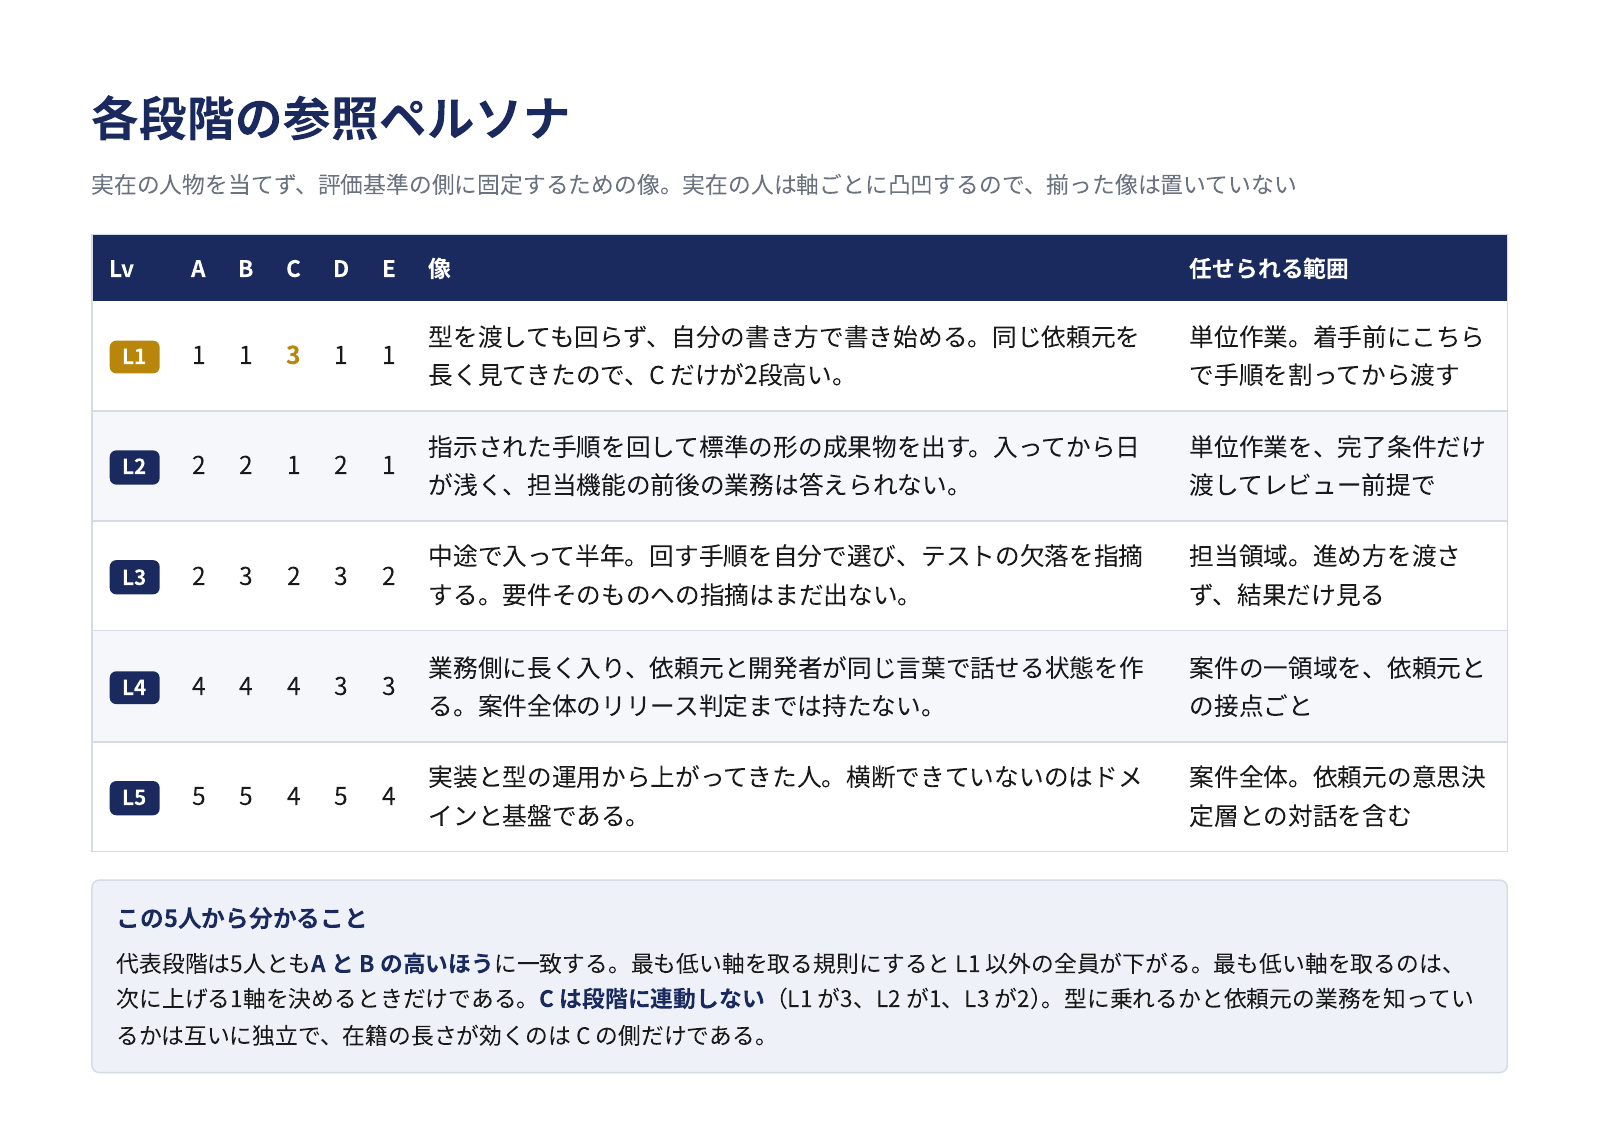
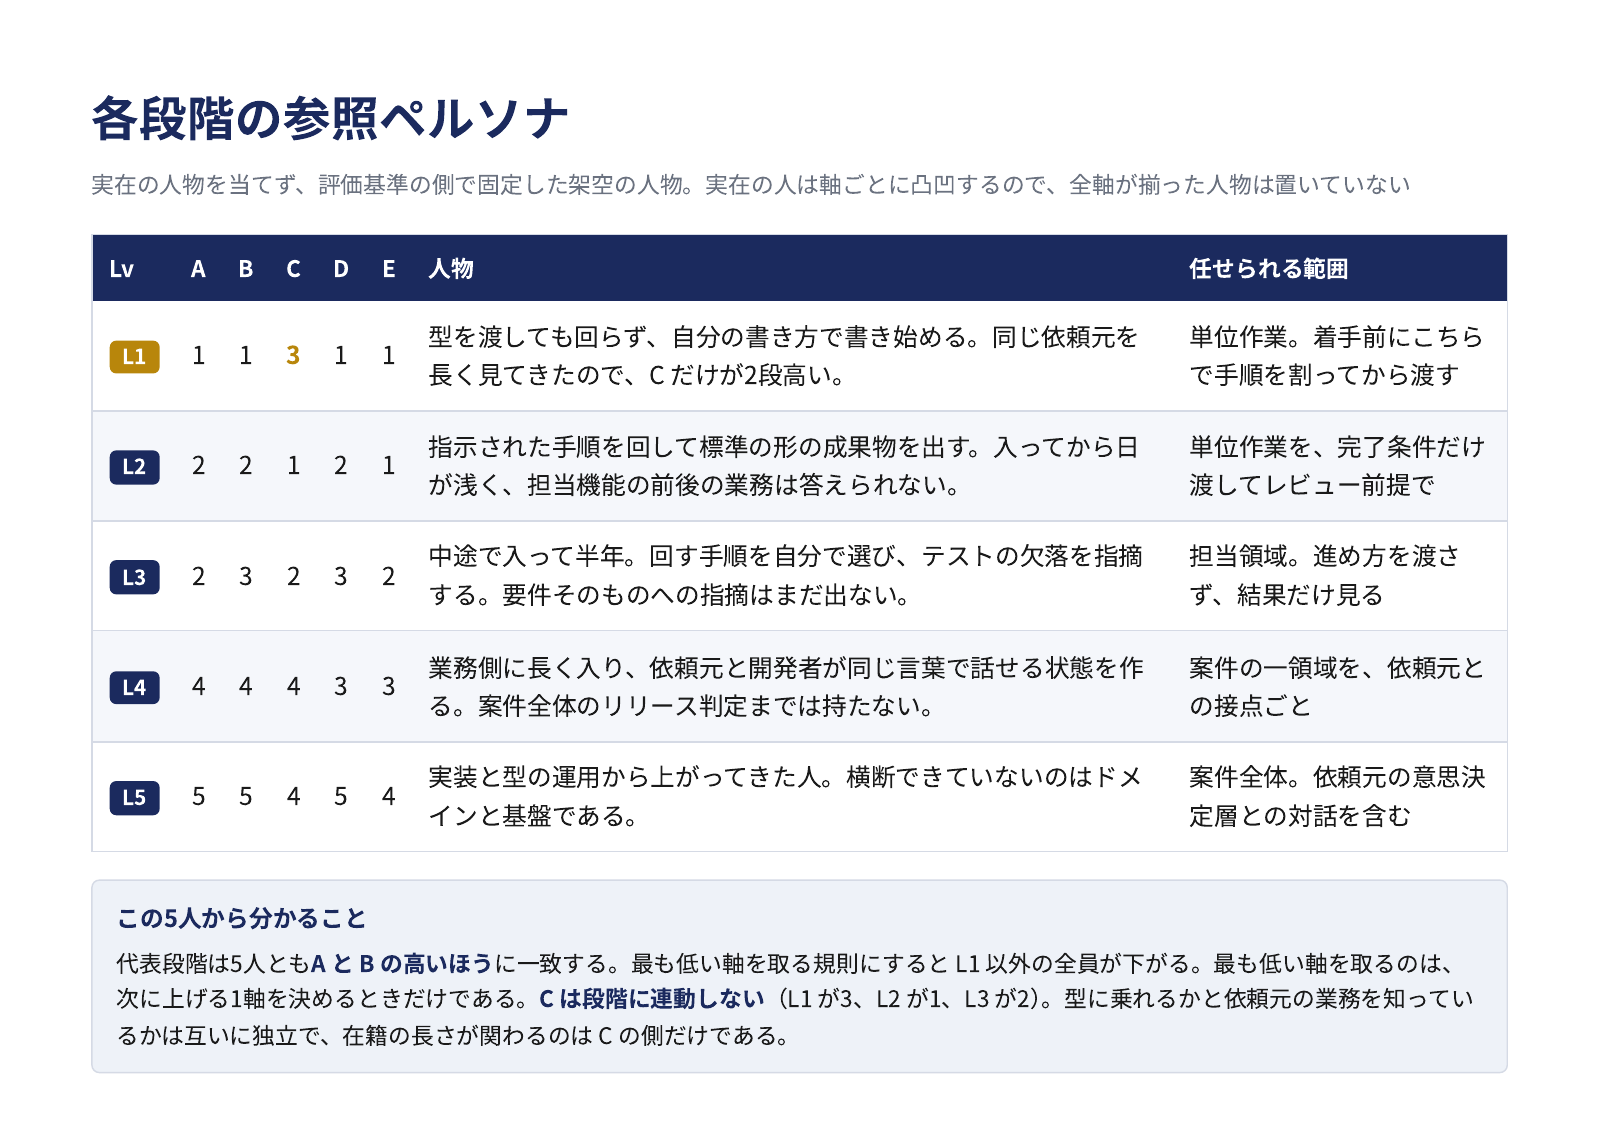
Replace vague 像 wording in ladder docs and slides
参照ペルソナを指す「像」を「架空の人物」に、L5 の「到達像」を「到達点」に書き換えた。スライド8枚目の「効く」も docs と同じ「関わる」にそろえ、PNG を作り直した。

Changed region(s): [[0.3125, 0.1547, 0.875, 0.1857], [0.2812, 0.8974, 0.5, 0.9284], [0.25, 0.2166, 0.3125, 0.2476]]

diff --git a/ladder/slides.html b/ladder/slides.html
@@ -193,7 +193,7 @@ li::before{ content:""; position:absolute; left:.4mm; top:calc(.5lh - .75mm);
     <div class="co3">
       <div class="callout"><div class="t">L1 は標準化の外に置く</div>型を渡しても回せず、個人の書き方で成果物を出す状態。<b>型を渡して回させれば L2 へ上がれる</b>ので、育成の出発点が定義で決まる。</div>
       <div class="callout"><div class="t">L2 は型を理解すれば届く</div>判定文は型が実際に強制するものだけで書いてある。理解した人が届かないなら、<b>直すのは人ではなく判定文か型の側</b>である。</div>
-      <div class="callout"><div class="t">L5 の行は到達像</div>5本がすべて真になる人を探すためではなく、<b>どの軸がどれだけ足りないか</b>を言うために使う。</div>
+      <div class="callout"><div class="t">L5 の行は到達点</div>5本がすべて真になる人を探すためではなく、<b>どの軸がどれだけ足りないか</b>を言うために使う。</div>
     </div>
     <div class="note">※ 報酬帯との対応は持たない。段階と報酬の結び付け方は各社で違い、評価基準の側に固定すると持ち込めなくなる。</div>
   </div>
@@ -304,14 +304,14 @@ li::before{ content:""; position:absolute; left:.4mm; top:calc(.5lh - .75mm);
 <section class="page">
   <div class="head">
     <h1>各段階の参照ペルソナ</h1>
-    <div class="sub">実在の人物を当てず、評価基準の側に固定するための像。実在の人は軸ごとに凸凹するので、揃った像は置いていない</div>
+    <div class="sub">実在の人物を当てず、評価基準の側で固定した架空の人物。実在の人は軸ごとに凸凹するので、全軸が揃った人物は置いていない</div>
   </div>
   <div class="body">
     <table style="flex:1">
       <thead><tr>
         <th style="width:14mm">Lv</th>
         <th class="num" style="width:7mm">A</th><th class="num" style="width:7mm">B</th><th class="num" style="width:7mm">C</th><th class="num" style="width:7mm">D</th><th class="num" style="width:7mm">E</th>
-        <th>像</th><th style="width:62mm">任せられる範囲</th>
+        <th>人物</th><th style="width:62mm">任せられる範囲</th>
       </tr></thead>
       <tbody>
         <tr><td><span class="lv out">L1</span></td>
@@ -339,7 +339,7 @@ li::before{ content:""; position:absolute; left:.4mm; top:calc(.5lh - .75mm);
   </div>
   <div class="foot"><div class="callout">
     <div class="t">この5人から分かること</div>
-    代表段階は5人とも<b>A と B の高いほう</b>に一致する。最も低い軸を取る規則にすると L1 以外の全員が下がる。最も低い軸を取るのは、次に上げる1軸を決めるときだけである。<b>C は段階に連動しない</b>（L1 が3、L2 が1、L3 が2）。型に乗れるかと依頼元の業務を知っているかは互いに独立で、在籍の長さが効くのは C の側だけである。
+    代表段階は5人とも<b>A と B の高いほう</b>に一致する。最も低い軸を取る規則にすると L1 以外の全員が下がる。最も低い軸を取るのは、次に上げる1軸を決めるときだけである。<b>C は段階に連動しない</b>（L1 が3、L2 が1、L3 が2）。型に乗れるかと依頼元の業務を知っているかは互いに独立で、在籍の長さが関わるのは C の側だけである。
   </div></div>
 </section>
 

diff --git a/ladder/docs/personas.md b/ladder/docs/personas.md
@@ -1,12 +1,12 @@
 # 参照ペルソナ
 
-[ladder.md](ladder.md) の各段階に1人ずつ像を置く。実在の人物を当てず、評価基準の側を
-固定するための像である。採点で迷ったとき、判定文とこの5人を照らし合わせる。
+[ladder.md](ladder.md) の各段階に1人ずつ架空の人物を置く。実在の人物を当てず、評価基準の側で
+固定しておく。採点で迷ったとき、判定文とこの5人を照らし合わせる。
 
-**5人とも全軸を揃えていない。** 実在の人は軸ごとに凸凹するため、揃った像はどの人にも
-当たらない。
+**5人とも全軸を揃えていない。** 実在の人は軸ごとに凸凹するため、全軸が揃った人物は実在の
+どの人にも当たらない。
 
-**全軸が揃った像は正本の側にある。** ladder.md の L5 の行に並ぶ5本の判定文が
+**全軸が揃った L5 は正本の側にある。** ladder.md の L5 の行に並ぶ5本の判定文が
 それで、ここに置いた L5 はその行に全軸で届いた人ではなく、L5 と呼ぶ人の一例である。
 
 **点は能力で書いてある。** 機会が無くてやっていないことを理由に点は下げない。

diff --git a/ladder/docs/ladder.md b/ladder/docs/ladder.md
@@ -31,7 +31,7 @@
 届かない。C ドメイン理解は L2 の時点ですでにこの保証から外れる。依頼元の業務を成果物にする手順を
 持つ型が少ないためで、そこは型の側の欠落になる。
 
-**L5 の行は到達像である。** 5本の判定文がすべて真になる人を探すためではなく、
+**L5 の行は到達点である。** 5本の判定文がすべて真になる人を探すためではなく、
 どの軸がどれだけ足りないかを言うために使う。
 
 報酬帯との対応は持たない。段階と報酬の結び付け方は各社で違い、評価基準の側に固定すると
